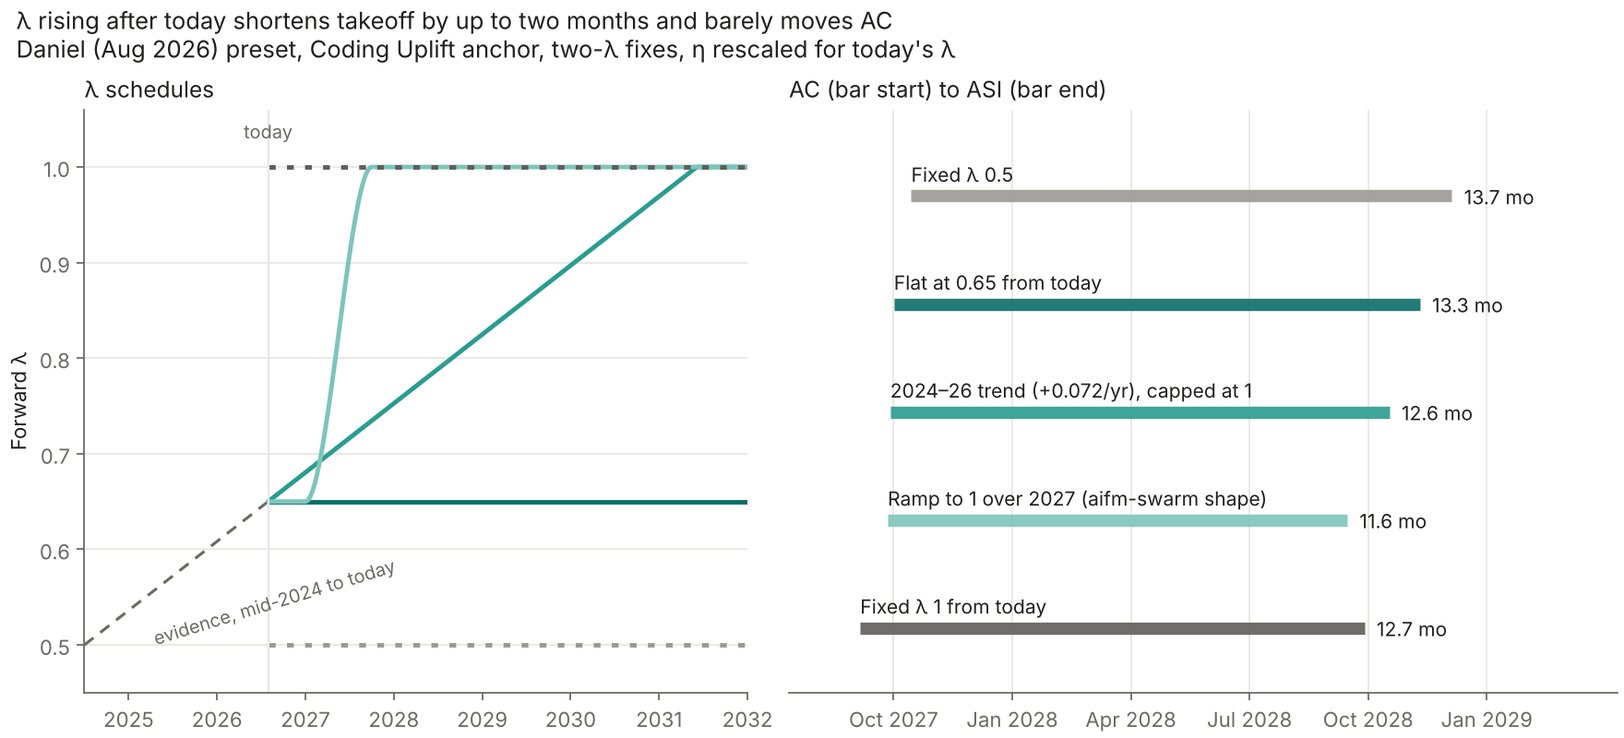
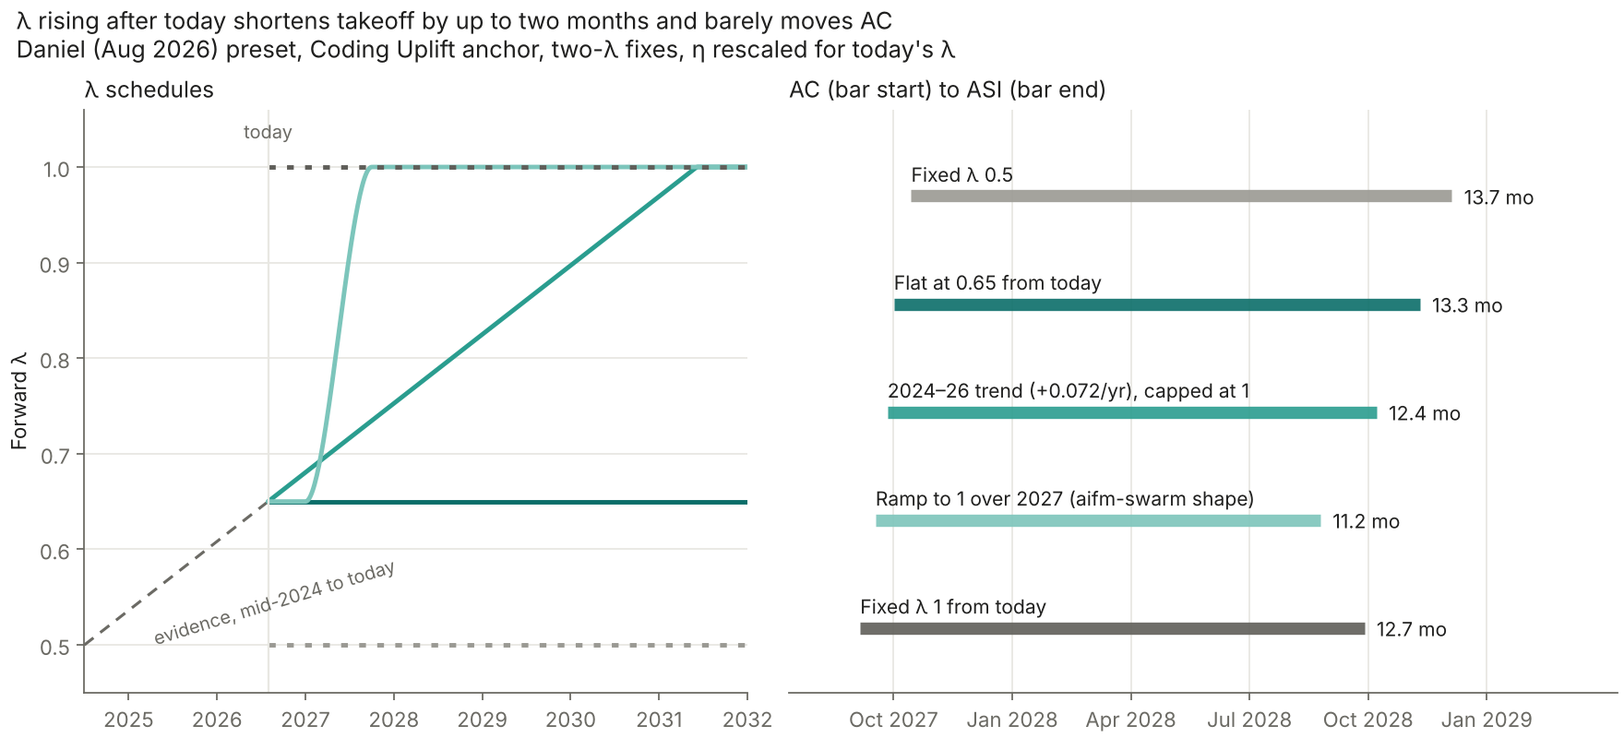
Apply a rise in λ to all coding labor growth since today
A λ schedule now puts λ(t) in place of the forward λ, X0^0.5 (X/X0)^λ(t),
so better coordination also helps the agents already running rather than
only labor added after the rise. This drops the extra solver state.
Takeoff shortens by 0.2-0.4 months more than before for the rising
schedules; flat schedules are unchanged.

diff --git a/web/index.html b/web/index.html
@@ -101,7 +101,7 @@
         <li><strong>λ</strong> is the return to parallel coding labor: doubling it multiplies serial labor by 2<sup>λ</sup>. The original model uses one λ for historical human teams and future AI swarms alike.</li>
         <li>With one λ, raising it also changes two calibrations of the past: today's measured coding uplift is read as less automation, and returns to software research (r) are refit to 2024 progress. Both lengthen takeoff and can outweigh the direct benefit.</li>
         <li>The <strong>two-λ variant</strong> keeps both calibrations at λ 0.5, so today's automation and r are unchanged, and applies the forward λ only to growth in coding labor after today.</li>
-        <li><strong>λ rising over time</strong> moves the forward λ from its value today to a higher one over the chosen period. Serial coding labor grows at the λ in force when the parallel labor grows, so a rise does not revalue the growth that came before it. η is rescaled for today's forward λ only. With no rise this is the fixed forward λ. The variant line uses the schedule; the dotted original-model line uses the forward λ alone.</li>
+        <li><strong>λ rising over time</strong> moves the forward λ from its value today to a higher one over the chosen period. A rise applies to all coding labor growth since today, so better coordination also helps the agents already running. η is rescaled for today's forward λ only. With no rise this is the fixed forward λ. The variant line uses the schedule; the dotted original-model line uses the forward λ alone.</li>
         <li><strong>AC</strong> is the automated coder and <strong>ASI</strong> artificial superintelligence, as defined by the AI Futures Model. Takeoff is the time from AC to ASI. Coding Uplift anchor.</li>
         <li>The original model accepts λ up to 1. Everything is solved in your browser with <a href="https://pyodide.org">Pyodide</a>. Source and method: <a href="https://github.com/JulianBradshaw/aifm-rising-lambda">aifm-rising-lambda</a>, built on <a href="https://github.com/JulianBradshaw/aifm-lambda-fixes">aifm-lambda-fixes</a>.</li>
       </ul>

diff --git a/web/app.js b/web/app.js
@@ -36,7 +36,7 @@ const SLIDERS = {
   ila: { label: 'Coding-labor asymptote', min: 0.5, max: 4.3, step: 0.01, log: true, fmt: (v) => `${fmtSig(v)}×`,
     hint: (p) => `Preset ${fmtSig(p.ila)}×. Changing it recalibrates all three runs` },
   lambda_rise: { label: 'λ rises by', min: 0, max: 0.7, step: 0.05, fmt: (v) => `+${v.toFixed(2)}`,
-    hint: () => `λ moves from the forward λ to forward λ + this over the rise below. 0 keeps λ flat. Each rise applies only to labor growth after it` },
+    hint: () => `λ moves from the forward λ to forward λ + this over the rise below. 0 keeps λ flat. A rise applies to all labor growth since today, agents already running included` },
   ramp_start: { label: 'Rise starts', min: 2026.58, max: 2032, step: 0.01, fmt: (v) => fmtDate(v),
     hint: () => 'No earlier than today' },
   ramp_years: { label: 'Rise takes', min: 0.25, max: 10, step: 0.05, fmt: (v) => `${v.toFixed(2).replace(/\.?0+$/, '')} years`,

diff --git a/two_lambda/model.py b/two_lambda/model.py
@@ -19,9 +19,9 @@ lambda_forward equal to the preset's λ, the result is the upstream trajectory i
 Milestones are dated where log10 effective compute crosses each threshold.
 
 An optional λ schedule lets the forward λ rise after t0, from lambda_forward to lambda_end over
-a ramp. Serial labor then grows as d ln(serial) = λ(t) d ln X, which needs one extra solver
-state (see ForwardLabor). With lambda_end unset or equal to lambda_forward the run is the
-fixed forward λ above. See DESIGN.md.
+a ramp. λ(t) takes the place of lambda_forward in the formula above, so a rise applies to all
+coding labor growth since t0, the agents already running included. With lambda_end unset or
+equal to lambda_forward the run is the fixed forward λ above. See DESIGN.md.
 """
 import copy
 from dataclasses import dataclass, asdict
@@ -142,15 +142,6 @@ class Variant:
         q = x if self.ramp_shape == 'linear' else x*x*(3 - 2*x)
         return self.lambda_forward + (self.lambda_end - self.lambda_forward) * q
 
-    def lambda_rate(self, t, t0):
-        """dλ/dt at time t."""
-        start, stop = self.ramp_window(t0)
-        if not self.rising or not start < t < stop:
-            return 0.0
-        x = (t - start) / self.ramp_years
-        dq = 1.0 if self.ramp_shape == 'linear' else 6*x*(1 - x)
-        return (self.lambda_end - self.lambda_forward) * dq / self.ramp_years
-
     def eta_factor(self, eta, lambda_cal):
         """Forward η divided by calibrated η; eta is the input value in OOMs per progress-year."""
         ratio = lambda_cal / self.lambda_forward
@@ -184,17 +175,14 @@ class ForwardLabor:
     above t0's progress by eta_factor, which leaves which tasks are automated unchanged and
     multiplies every task's efficiency growth after t0 by the same factor.
 
-    With a λ schedule, serial labor grows as d ln(serial) = λ(t) d ln X. Integrating by parts,
-    ln(serial / norm) = lambda_cal ln X0 + λ(t) ln(X/X0) - W, with W = ∫ λ'(τ) ln(X/X0) dτ from
-    t0, so only W needs a solver state and no derivative of X is needed. at(t, W) sets the λ
-    and W for the next call; log_growth holds the ln(X/X0) it used, for W's derivative.
-    Changing λ directly in X0 (X/X0)^(λ/lambda_cal) would instead reprice all labor growth since
-    t0 whenever λ moves.
+    With a λ schedule, λ(t) replaces lambda_forward: X0 (X/X0)^(λ(t)/lambda_cal), so better
+    coordination raises the serial value of all labor growth since t0, not only of growth after
+    the rise. at(lam) sets the λ for the next call.
     """
     def __init__(self, params, variant, eta, progress0, human0, inference0):
         self.base, self.lambda_cal = params.automation_model, params.parallel_penalty
         self.exponent = variant.lambda_forward / self.lambda_cal
-        self.rising, self.lam, self.w, self.log_growth = variant.rising, variant.lambda_forward, 0.0, 0.0
+        self.rising, self.lam = variant.rising, variant.lambda_forward
         self.k = variant.eta_factor(eta, self.lambda_cal)
         self.ln0 = math.log(cfg.BASE_FOR_SOFTWARE_LOM) * progress0
         self.x0 = self.base.coding_labor_optimal_ces(human0, inference0, self.ln0, params)
@@ -220,8 +208,8 @@ class ForwardLabor:
         if not all(np.isfinite([self.x0, self.xf0])) or min(self.x0, self.xf0) <= 0:
             raise FloatingPointError('Invalid coding labor at the calibration date')
 
-    def at(self, lam, w):
-        self.lam, self.w = lam, w
+    def at(self, lam):
+        self.lam = lam
         return self
 
     def stretch(self, x, x0):
@@ -231,11 +219,7 @@ class ForwardLabor:
         x = self.forward.coding_labor_optimal_ces(H, C, self.stretch(logE, self.ln0), self.params)
         if x is None or not np.all(np.isfinite(x)):
             raise FloatingPointError('Forward coding labor failed')
-        if self.rising:
-            self.log_growth = np.log(x / self.xf0)
-            x = self.x0 * np.exp((self.lam * self.log_growth - self.w) / self.lambda_cal)
-        else:
-            x = self.x0 * (x / self.xf0)**self.exponent
+        x = self.x0 * (x / self.xf0)**(self.lam / self.lambda_cal if self.rising else self.exponent)
         return x if self.max_parallel_per_human is None else np.minimum(x, H * self.max_parallel_per_human)
 
     def __getattr__(self, name):
@@ -303,24 +287,20 @@ def simulate(variant=None, anchor='uplift-solved', end=2040.0, max_step=1/24, *,
         for a, b in zip(bounds[:-1], bounds[1:]):
             if a == t0:
                 forward = forward_params(model, variant, t0, float(state[0]))
-                if variant.rising:
-                    state = [*state, 0.0]  # W, see ForwardLabor
             params = p if forward is None else forward
             if forward is None or not variant.rising:
                 rhs = lambda t, y: progress_rate_at_time(t, y, data, params, RS_0=rs0)
             else:
                 def rhs(t, y, params=params):
-                    labor = params.automation_model.at(variant.lambda_at(t, t0), y[2])
-                    labor.log_growth = 0.0
-                    rate = progress_rate_at_time(t, y[:2], data, params, RS_0=rs0)
-                    return [*rate, variant.lambda_rate(t, t0) * float(labor.log_growth)]
+                    params.automation_model.at(variant.lambda_at(t, t0))
+                    return progress_rate_at_time(t, y, data, params, RS_0=rs0)
             sol = solve_ivp(rhs, [a, b], state, method='Radau', rtol=1e-6, atol=1e-8,
                             max_step=max_step, dense_output=True, events=ceiling_event)
             if not sol.success:
                 raise RuntimeError(sol.message)
             segments.append((a, float(sol.t[-1]), sol.sol))
             mask = (times >= a) & (times <= sol.t[-1])
-            raw[mask], stock[mask] = sol.sol(times[mask])[:2]
+            raw[mask], stock[mask] = sol.sol(times[mask])
             state = sol.y[:,-1].copy()
             if sol.status == 1:
                 status, solved_until = 'capability_ceiling', float(sol.t[-1])

diff --git a/tests/test_rising_lambda.py b/tests/test_rising_lambda.py
@@ -1,4 +1,4 @@
-"""λ schedules: a flat schedule is the fixed forward λ, and a rise applies only to labor growth after it."""
+"""λ schedules: a flat schedule is the fixed forward λ, and a rise applies to all labor growth since today."""
 import math
 import numpy as np
 import pytest
@@ -25,8 +25,8 @@ def test_flat_schedule_is_unchanged(fixed):
     assert simulate(Variant(0.5, lambda_end=0.5))['upstream_path']
 
 
-def test_the_extra_state_is_neutral_until_the_ramp_starts(fixed):
-    # A ramp beyond the horizon runs the three-state solver with λ constant; it must match the two-state run.
+def test_a_ramp_beyond_the_horizon_is_neutral(fixed):
+    # A ramp beyond the horizon runs the time-varying λ path with λ constant; it must match the fixed run.
     result = simulate(Variant(0.65, lambda_end=1.0, ramp_start=2039.0), end=2035.0)
     for key in ('AC', 'ASI'):
         assert result['milestones'][key] == pytest.approx(fixed['milestones'][key], abs=1/365/24)
@@ -40,28 +40,23 @@ def test_an_immediate_step_matches_the_fixed_lambda_it_steps_to():
         assert step['milestones'][key] == pytest.approx(flat['milestones'][key], abs=0.25/365)
 
 
-def test_serial_labor_integrates_lambda_against_labor_growth(t0):
-    # ln(serial) - ln(serial at t0) must equal the integral of λ(t) d ln X, not λ(t) ln(X/X0).
+def test_a_rise_revalues_all_labor_growth_since_today(t0):
+    # ln(serial) - ln(serial at t0) must equal λ(t) ln(X/X0): a rise applies to the agents already running.
     model = calibrate()
     p, data = model.params, model.data
     times = np.asarray(model.results['times'])
     progress = np.asarray(model.results['progress'])
     variant = Variant(0.65, lambda_end=1.0, ramp_start=2027.5, ramp_years=1.0)
     labor = forward_params(model, variant, t0, float(np.interp(t0, times, progress))).automation_model
-    ts = np.linspace(t0, 2028.25, 4001)  # before the serial cap binds
-    def parallel(t, lam, w):
-        lnE = math.log(cfg.BASE_FOR_SOFTWARE_LOM) * float(np.interp(t, times, progress))
-        x = labor.at(lam, w).coding_labor_optimal_ces(interpolate(data, 'L_HUMAN', t), interpolate(data, 'inference_H100e', t), lnE, p)
-        return float(x), float(labor.log_growth)
-    growth = np.array([parallel(t, variant.lambda_at(t, t0), 0.0)[1] for t in ts])
-    lam = np.array([variant.lambda_at(t, t0) for t in ts])
-    rate = np.array([variant.lambda_rate(t, t0) for t in ts])
-    w = np.r_[0, np.cumsum(0.5*(rate[1:]*growth[1:] + rate[:-1]*growth[:-1])*np.diff(ts))]
-    direct = np.r_[0, np.cumsum(0.5*(lam[1:] + lam[:-1])*np.diff(growth))]
-    x_end, _ = parallel(ts[-1], lam[-1], w[-1])
-    serial = p.parallel_penalty * math.log(x_end / labor.x0)
-    assert serial == pytest.approx(direct[-1], rel=1e-4)
-    assert abs(lam[-1]*growth[-1] - direct[-1]) > 0.05  # the naive form would reprice past growth
+    t = 2028.0  # mid-ramp, before the serial cap binds
+    lnE = math.log(cfg.BASE_FOR_SOFTWARE_LOM) * float(np.interp(t, times, progress))
+    def serial_growth(lam):
+        x = labor.at(lam).coding_labor_optimal_ces(interpolate(data, 'L_HUMAN', t), interpolate(data, 'inference_H100e', t), lnE, p)
+        return p.parallel_penalty * math.log(float(x) / labor.x0)
+    lam = variant.lambda_at(t, t0)
+    assert 0.65 < lam < 1.0
+    assert serial_growth(0.65) > 0.05
+    assert serial_growth(lam) == pytest.approx(serial_growth(0.65) * lam / 0.65, rel=1e-9)
 
 
 def test_rising_lambda_shortens_takeoff_but_barely_moves_ac(fixed):

diff --git a/two_lambda/rising_sweep.py b/two_lambda/rising_sweep.py
@@ -142,8 +142,8 @@ def main():
     none = [r for r in rows if r['eta_rescale'] == 'none']
     lines = [f'# λ rising over time ({args.preset}, {args.anchor} anchor)', '',
         f'History and calibration keep λ 0.5. From the calibration date ({t0:.2f}) the forward λ starts at 0.65 and '
-        'follows each schedule; serial coding labor grows as λ(t) times the growth of parallel labor, so a later rise '
-        'applies only to growth after it. η is rescaled for today\'s λ (0.5/0.65) and not for the later rise. '
+        'follows each schedule; serial coding labor is X0^0.5 (X/X0)^λ(t), so a rise applies to all parallel labor growth '
+        'since today, the agents already running included. η is rescaled for today\'s λ (0.5/0.65) and not for the later rise. '
         'Takeoff is AC to ASI; deterministic single runs at preset medians, not forecasts. '
         'Regenerate with `python -m two_lambda.rising_sweep`.', '', *table(linear), '',
         'With η not rescaled at all (the other bound used in the two-λ results):', '', *table(none), '',

diff --git a/DESIGN.md b/DESIGN.md
@@ -8,20 +8,18 @@ The two-λ fixes give serial coding labor after the calibration date t0 as
 
     serial = norm · X0^λ_cal · (X / X0)^λ_f
 
-with X parallel coding labor, X0 its value at t0, λ_cal = 0.5 the calibration λ and λ_f the forward λ. Putting a time-varying λ(t) in place of λ_f would make a change in λ revalue all growth in X since t0 at once: a rise from 0.65 to 1 in 2028 would multiply serial labor by (X/X0)^0.35 overnight. A schedule for λ should instead mean that labor grows at the λ in force when it grows:
+with X parallel coding labor, X0 its value at t0, λ_cal = 0.5 the calibration λ and λ_f the forward λ. A schedule puts a time-varying λ(t) in place of λ_f:
 
-    d ln(serial) = λ(t) · d ln X
+    serial = norm · X0^λ_cal · (X / X0)^λ(t)
 
-Integrating by parts from t0, with L = ln(X/X0),
+so a rise in λ raises the serial value of all growth in X since t0, the agents already running included, and not only of labor added after the rise. That is the usual reading of λ, a property of how well the whole workforce parallelizes, and better orchestration plausibly helps agents that are already deployed. Today's productivity is still pinned, since growth before t0 keeps λ_cal. The alternative, d ln(serial) = λ(t) · d ln X, applies each λ only to labor growth while it is in force; it needs one extra solver state and gives slightly longer takeoffs (by 0.2 to 0.4 months for the schedules in `outputs/RISING.md`).
 
-    ln(serial / norm) = λ_cal ln X0 + λ(t) · L − W,     W(t) = ∫ λ'(τ) L(τ) dτ  from t0
-
-so the solver carries one extra state, W, with dW/dt = λ'(t) · L. The derivative of X is never needed, and W stays 0 until λ starts to move, so with a flat schedule the formula is the fixed-λ one. A flat schedule does not even use the extra state: it takes the original code path, and `tests/test_rising_lambda.py` checks that it reproduces the fixed forward λ exactly. The tests also check that a ramp beyond the horizon runs the three-state solver to the same dates, that an immediate step equals the fixed λ it steps to, and that serial labor matches a direct quadrature of ∫ λ d ln X and not λ(t) · L.
+A ramp changes serial labor gradually, by d ln(serial) = λ(t) · d ln X + λ'(t) · ln(X/X0) · dt; only an immediate step changes it at once, which is what a fixed λ_f from t0 already does. No extra solver state is needed. A flat schedule takes the original code path, and `tests/test_rising_lambda.py` checks that it reproduces the fixed forward λ exactly. The tests also check that a ramp beyond the horizon gives the same dates, that an immediate step equals the fixed λ it steps to, and that serial labor growth since t0 scales with λ(t) mid-ramp.
 
 The schedule is `Variant(lambda_forward, lambda_end, ramp_start, ramp_years, ramp_shape)`: λ moves from lambda_forward at t0 to lambda_end over ramp_years starting at ramp_start (default t0), linearly or as the smoothstep 3x² − 2x³ used by the earlier swarm model's coordination ramp. The ramp ends are kinks in λ, so the solver restarts there.
 
-**η.** η is rescaled for lambda_forward only, η · (λ_cal/lambda_forward), as in the fixed case. The rescale converts an η estimated under λ_cal into parallel-labor units for today's λ; a later rise in λ is better coordination of that labor, not a change in how much labor compute buys, so it should raise the serial value of η's growth too. Rescaling η for λ(t) at each moment would need a second state of the same kind and would hold η's serial rate fixed, so the rise would act only on labor growth from human labor and inference compute. This is why the fast ramp to 1 gives a shorter takeoff than a fixed λ of 1, which is rescaled for 1.
+**η.** η is rescaled for lambda_forward only, η · (λ_cal/lambda_forward), as in the fixed case. The rescale converts an η estimated under λ_cal into parallel-labor units for today's λ; a later rise in λ is better coordination of that labor, not a change in how much labor compute buys, so it should raise the serial value of η's growth too. Rescaling η for λ(t) at each moment would hold η's serial rate fixed, so the rise would act only on labor growth from human labor and inference compute. This is part of why the fast ramp to 1 gives a shorter takeoff than a fixed λ of 1, which is rescaled for 1. The other part is that takeoff is measured from AC, which the ramp reaches about two weeks later than a fixed λ of 1 does, so the ramp's takeoff is shorter even with η not rescaled, although its ASI also comes later.
 
 **Serial cap.** The Maximum Serial Coding Labor Multiplier is applied exactly to the returned labor, (X_returned/H)^λ_cal ≤ M, at every λ; the CES frontier keeps the cap for lambda_forward.
 
-**Not modeled.** λ before t0 stays at λ_cal: the rise from 0.5 to 0.65 that the evidence suggests between 2024 and today is not fed back into the calibration, which is the two-λ convention of pinning today's productivity. The schedule is exogenous in time; a λ that rises with capability rather than the calendar would need λ as a function of the progress state instead of t, which the same W state supports.
+**Not modeled.** λ before t0 stays at λ_cal: the rise from 0.5 to 0.65 that the evidence suggests between 2024 and today is not fed back into the calibration, which is the two-λ convention of pinning today's productivity. The schedule is exogenous in time; a λ that rises with capability rather than the calendar would need λ as a function of the progress state instead of t.

diff --git a/README.md b/README.md
@@ -8,7 +8,7 @@ A small variant of the public [AI Futures Model](https://github.com/AI-Futures-P
 
 The two-λ fixes below hold the forward λ fixed from today on. The evidence summarised in the forthcoming write-up puts λ at about 0.5 for the teams behind the 2024 calibration and about 0.65 for small AI teams today, so λ may keep rising as coordination improves. Here the forward λ can follow a schedule after today: it starts at `lambda_forward` and moves to `lambda_end` over `ramp_years` from `ramp_start`, along a straight line or a smoothstep S-curve.
 
-Serial coding labor then grows at the λ in force when the parallel labor grows, d ln(serial) = λ(t) d ln X, so a later rise in λ applies only to growth after it and does not revalue the labor already accumulated. Plugging λ(t) into the fixed-λ formula X0^0.5 (X/X0)^λ would instead reprice all growth since today the moment λ moves. Doing it properly takes one extra solver state; [DESIGN.md](DESIGN.md#λ-rising-over-time) gives the derivation. η is rescaled for today's forward λ (0.5/0.65) and not for the later rise, since the rise is better coordination rather than a change in how much parallel labor compute buys. History and every calibrated quantity are unchanged, and a flat schedule takes the original code path, so it reproduces the two-λ fixes exactly.
+λ(t) then takes the place of the forward λ in the fixed-λ formula, X0^0.5 (X/X0)^λ(t), so a rise applies to all coding labor growth since today: better coordination also helps the agents already running, not only those added after the rise. With a gradual ramp serial labor changes gradually too; [DESIGN.md](DESIGN.md#λ-rising-over-time) has the details and the alternative of applying each λ only to labor added while it is in force. η is rescaled for today's forward λ (0.5/0.65) and not for the later rise, since the rise is better coordination rather than a change in how much parallel labor compute buys. History and every calibrated quantity are unchanged, and a flat schedule takes the original code path, so it reproduces the two-λ fixes exactly.
 
 Daniel 08/16/26 preset, Coding Uplift anchor, η rescaled linearly:
 
@@ -16,13 +16,13 @@ Daniel 08/16/26 preset, Coding Uplift anchor, η rescaled linearly:
 | --- | --- | --- | --- | --- | --- |
 | Fixed 0.5 (the fixes at upstream's λ) | 0.50 | 0.50 | Oct 2027 | Dec 2028 | 13.7 mo |
 | Flat at 0.65 | 0.65 | 0.65 | Oct 2027 | Nov 2028 | 13.3 mo |
-| The 2024–26 trend continued (+0.072 a year), capped at 1 | 0.73 | 0.81 | Sep 2027 | Oct 2028 | 12.6 mo |
-| 0.65 to 1 during 2027 (the earlier swarm repo's ramp: smoothstep from January over 9 months) | 1.00 | 1.00 | Sep 2027 | Sep 2028 | 11.6 mo |
+| The 2024–26 trend continued (+0.072 a year), capped at 1 | 0.73 | 0.81 | Sep 2027 | Oct 2028 | 12.4 mo |
+| 0.65 to 1 during 2027 (the earlier swarm repo's ramp: smoothstep from January over 9 months) | 1.00 | 1.00 | Sep 2027 | Aug 2028 | 11.2 mo |
 | Fixed 1 from today, for reference | 1.00 | 1.00 | Sep 2027 | Sep 2028 | 12.7 mo |
 
 ![λ schedules and AC to ASI for each](outputs/rising-lambda.png)
 
-A rising λ shortens takeoff by at most about 1.7 months against λ held at 0.65 and moves AC by at most 5 days, because λ only acts on labor growth after today and the trend reaches only about 0.8 by ASI. The fast ramp beats a fixed λ of 1 because η is rescaled for 0.65 rather than 1; with η not rescaled at all the two agree (11.0 months each; see [outputs/RISING.md](outputs/RISING.md)). Regenerate with `python -m two_lambda.rising_sweep` (writes `outputs/RISING.md`, `outputs/rising_lambda.csv` and the figure).
+A rising λ shortens takeoff by at most about 2.1 months against λ held at 0.65 and moves AC by at most 2 weeks, because λ only acts on labor growth after today and the trend reaches only about 0.8 by ASI. With η rescaled linearly the fast ramp reaches ASI about 5 weeks before a fixed λ of 1, because its η is rescaled for 0.65 rather than 1. With η not rescaled its ASI is about a week later than a fixed λ of 1, but its takeoff is still slightly shorter (10.7 against 11.0 months) because it reaches AC about two weeks later; see [outputs/RISING.md](outputs/RISING.md). Regenerate with `python -m two_lambda.rising_sweep` (writes `outputs/RISING.md`, `outputs/rising_lambda.csv` and the figure).
 
 The rest of this README describes the two-λ fixes, which are unchanged.
 
@@ -112,6 +112,6 @@ print(upstream_single_lambda(1.0)['takeoff_months'])  # the unmodified model at 
 - `two_lambda/presets.py`: reads the pinned presets from `upstream/constants/parameters.ts`.
 - `two_lambda/__main__.py`: the comparison report.
 - `upstream-patch/`: the same change as diffs against `upstream/progress_model`.
-- `tests/`: reproduction of upstream at λ 0.5, pinned calibration, the λ schedule (flat is unchanged; a rise applies only to later growth), the patch, and the browser entry point.
+- `tests/`: reproduction of upstream at λ 0.5, pinned calibration, the λ schedule (flat is unchanged; a rise applies to all growth since today), the patch, and the browser entry point.
 - `web/`: the browser page.
 - `figures/`: scripts and data for the λ charts, for the unmodified model and the two-λ variant (`python figures/make.py`).

diff --git a/outputs/RISING.md b/outputs/RISING.md
@@ -1,13 +1,13 @@
 # λ rising over time (daniel-08-16-26, uplift-solved anchor)
 
-History and calibration keep λ 0.5. From the calibration date (2026.58) the forward λ starts at 0.65 and follows each schedule; serial coding labor grows as λ(t) times the growth of parallel labor, so a later rise applies only to growth after it. η is rescaled for today's λ (0.5/0.65) and not for the later rise. Takeoff is AC to ASI; deterministic single runs at preset medians, not forecasts. Regenerate with `python -m two_lambda.rising_sweep`.
+History and calibration keep λ 0.5. From the calibration date (2026.58) the forward λ starts at 0.65 and follows each schedule; serial coding labor is X0^0.5 (X/X0)^λ(t), so a rise applies to all parallel labor growth since today, the agents already running included. η is rescaled for today's λ (0.5/0.65) and not for the later rise. Takeoff is AC to ASI; deterministic single runs at preset medians, not forecasts. Regenerate with `python -m two_lambda.rising_sweep`.
 
 | Schedule | λ at AC | λ at ASI | AC | ASI | Takeoff |
 | --- | --- | --- | --- | --- | --- |
 | Fixed λ 0.5 | 0.50 | 0.50 | 2027-10 | 2028-12 | 13.7 mo |
 | Flat at 0.65 from today | 0.65 | 0.65 | 2027-10 | 2028-11 | 13.3 mo |
-| 2024–26 trend (+0.072/yr), capped at 1 | 0.73 | 0.81 | 2027-09 | 2028-10 | 12.6 mo |
-| Ramp to 1 over 2027 (aifm-swarm shape) | 1.00 | 1.00 | 2027-09 | 2028-09 | 11.6 mo |
+| 2024–26 trend (+0.072/yr), capped at 1 | 0.73 | 0.81 | 2027-09 | 2028-10 | 12.4 mo |
+| Ramp to 1 over 2027 (aifm-swarm shape) | 1.00 | 1.00 | 2027-09 | 2028-08 | 11.2 mo |
 | Fixed λ 1 from today | 1.00 | 1.00 | 2027-09 | 2028-09 | 12.7 mo |
 
 With η not rescaled at all (the other bound used in the two-λ results):
@@ -16,8 +16,8 @@ With η not rescaled at all (the other bound used in the two-λ results):
 | --- | --- | --- | --- | --- | --- |
 | Fixed λ 0.5 | 0.50 | 0.50 | 2027-10 | 2028-12 | 13.7 mo |
 | Flat at 0.65 from today | 0.65 | 0.65 | 2027-09 | 2028-10 | 12.3 mo |
-| 2024–26 trend (+0.072/yr), capped at 1 | 0.73 | 0.80 | 2027-09 | 2028-09 | 11.8 mo |
-| Ramp to 1 over 2027 (aifm-swarm shape) | 1.00 | 1.00 | 2027-09 | 2028-08 | 11.0 mo |
+| 2024–26 trend (+0.072/yr), capped at 1 | 0.73 | 0.80 | 2027-09 | 2028-09 | 11.6 mo |
+| Ramp to 1 over 2027 (aifm-swarm shape) | 1.00 | 1.00 | 2027-09 | 2028-08 | 10.7 mo |
 | Fixed λ 1 from today | 1.00 | 1.00 | 2027-09 | 2028-07 | 11.0 mo |
 
 ![λ schedules and AC to ASI for each](rising-lambda.png)
